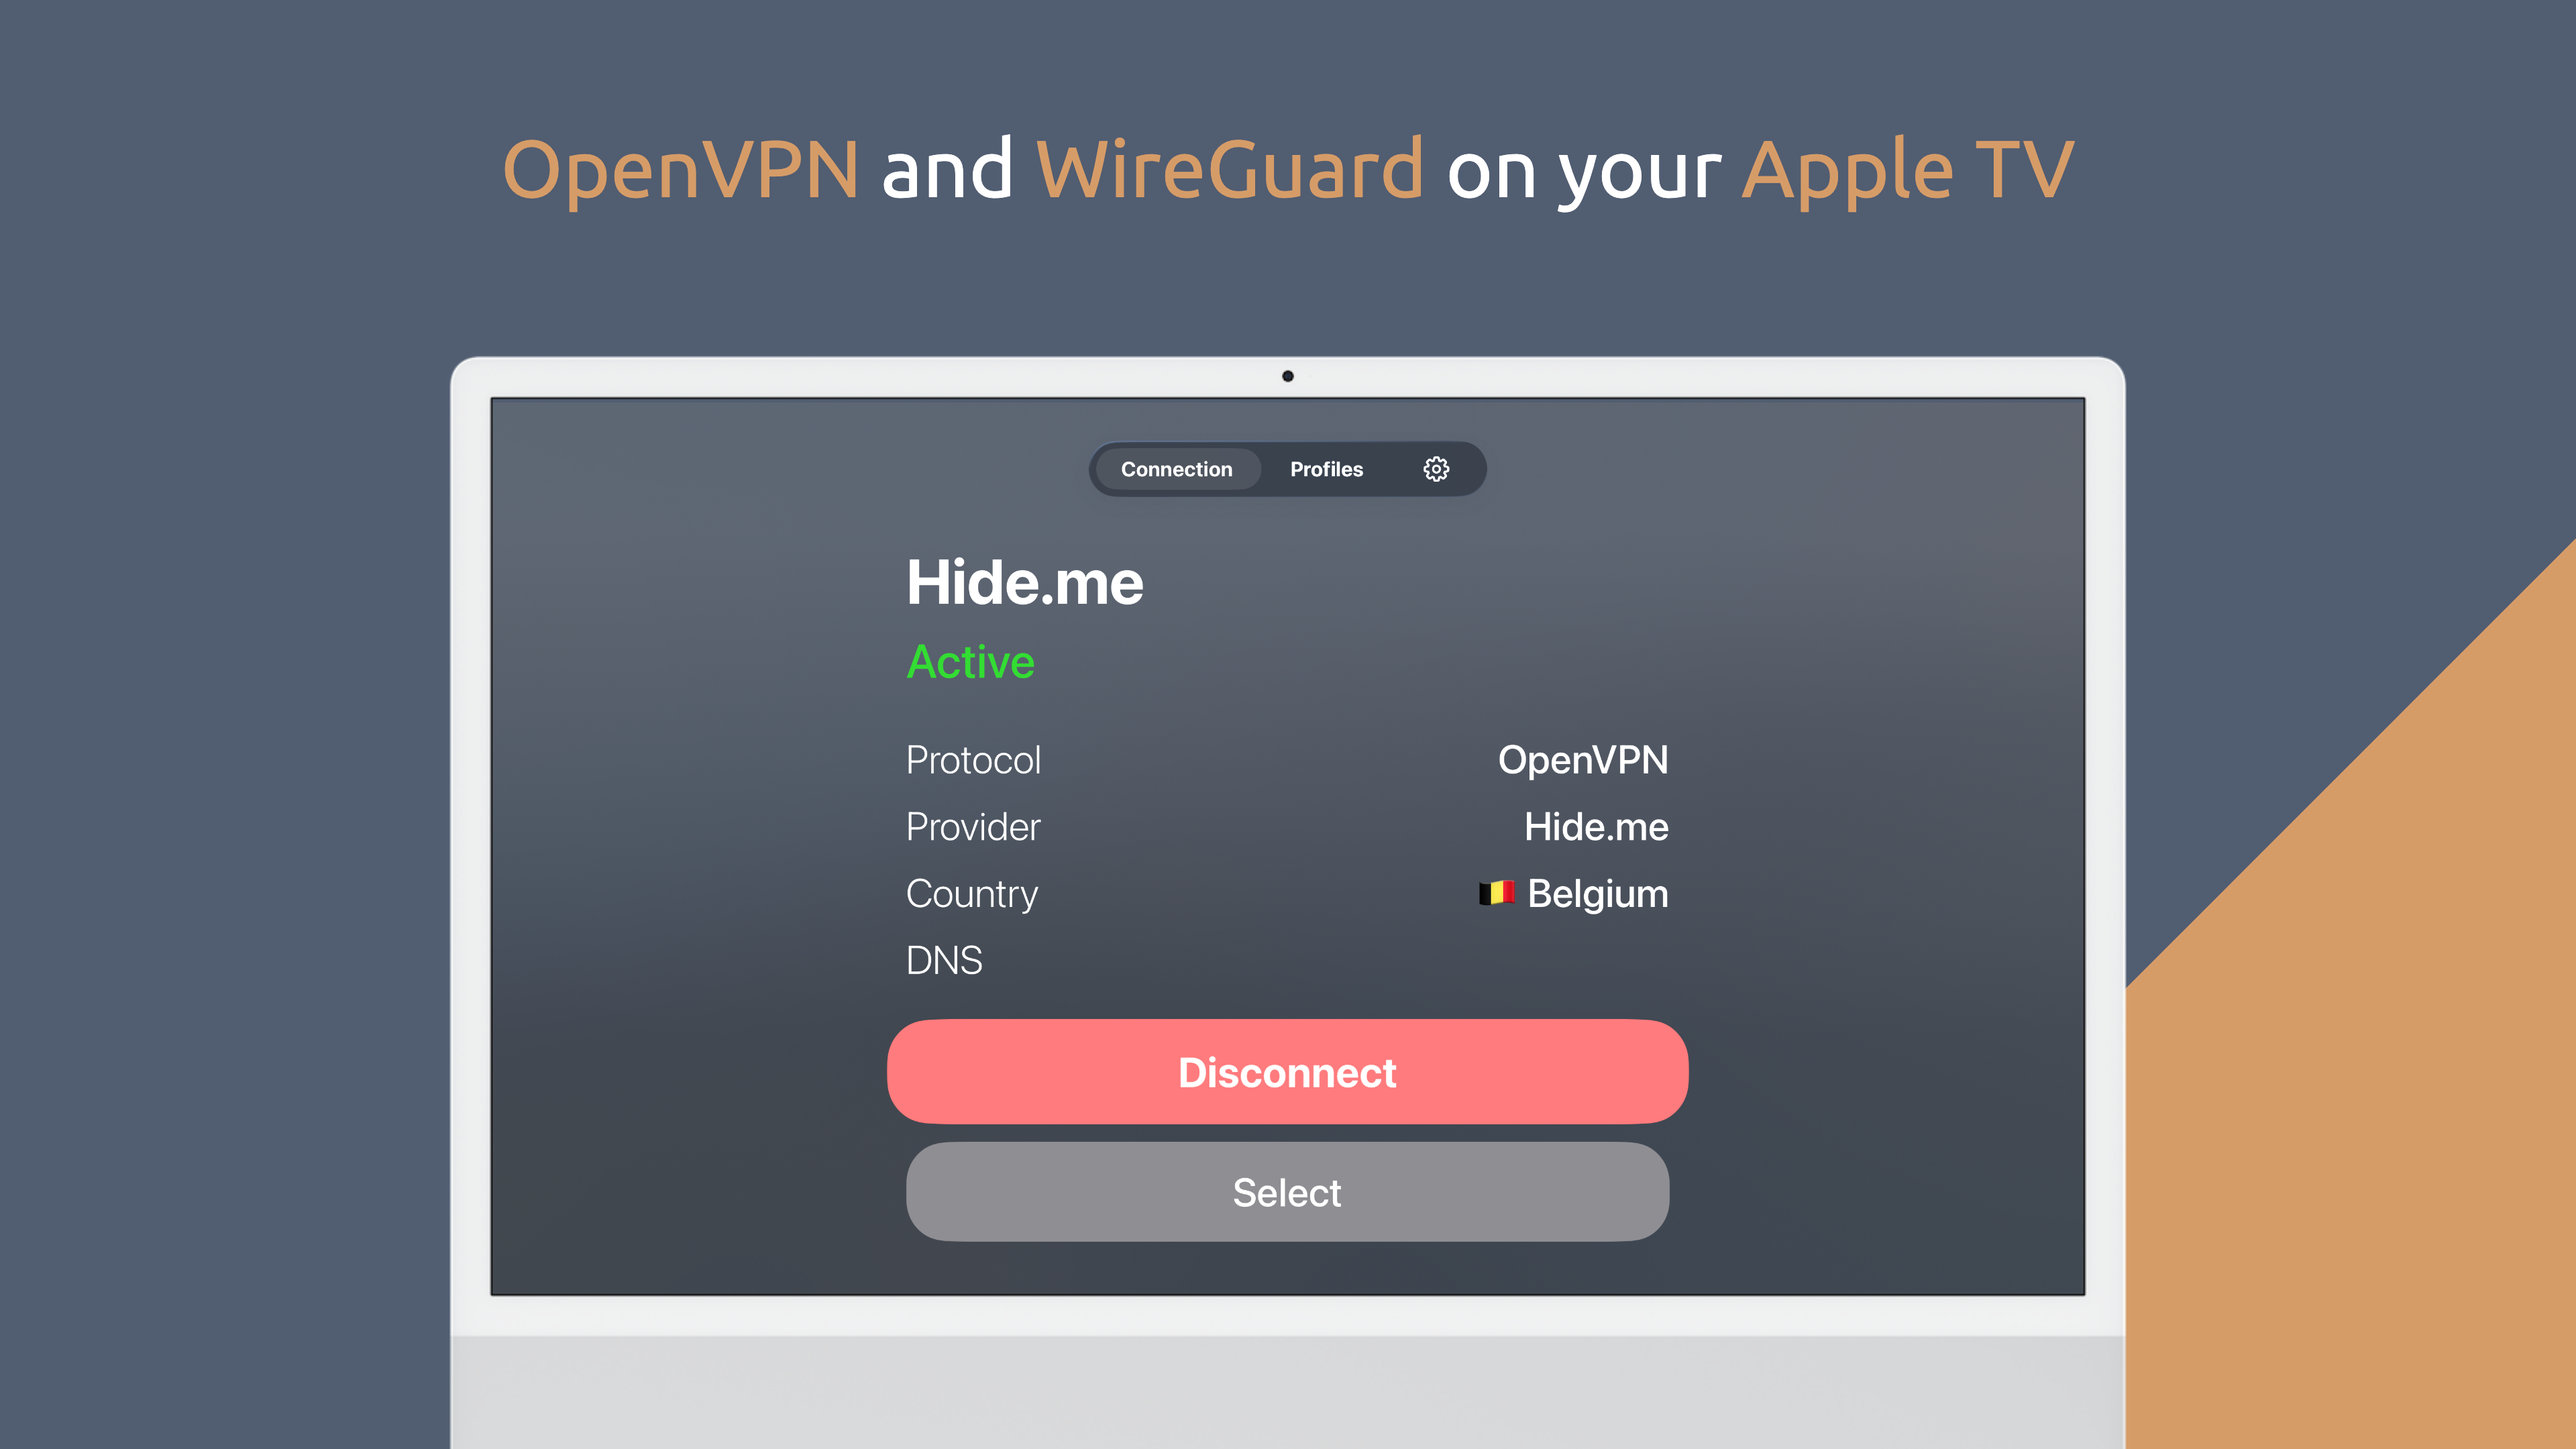
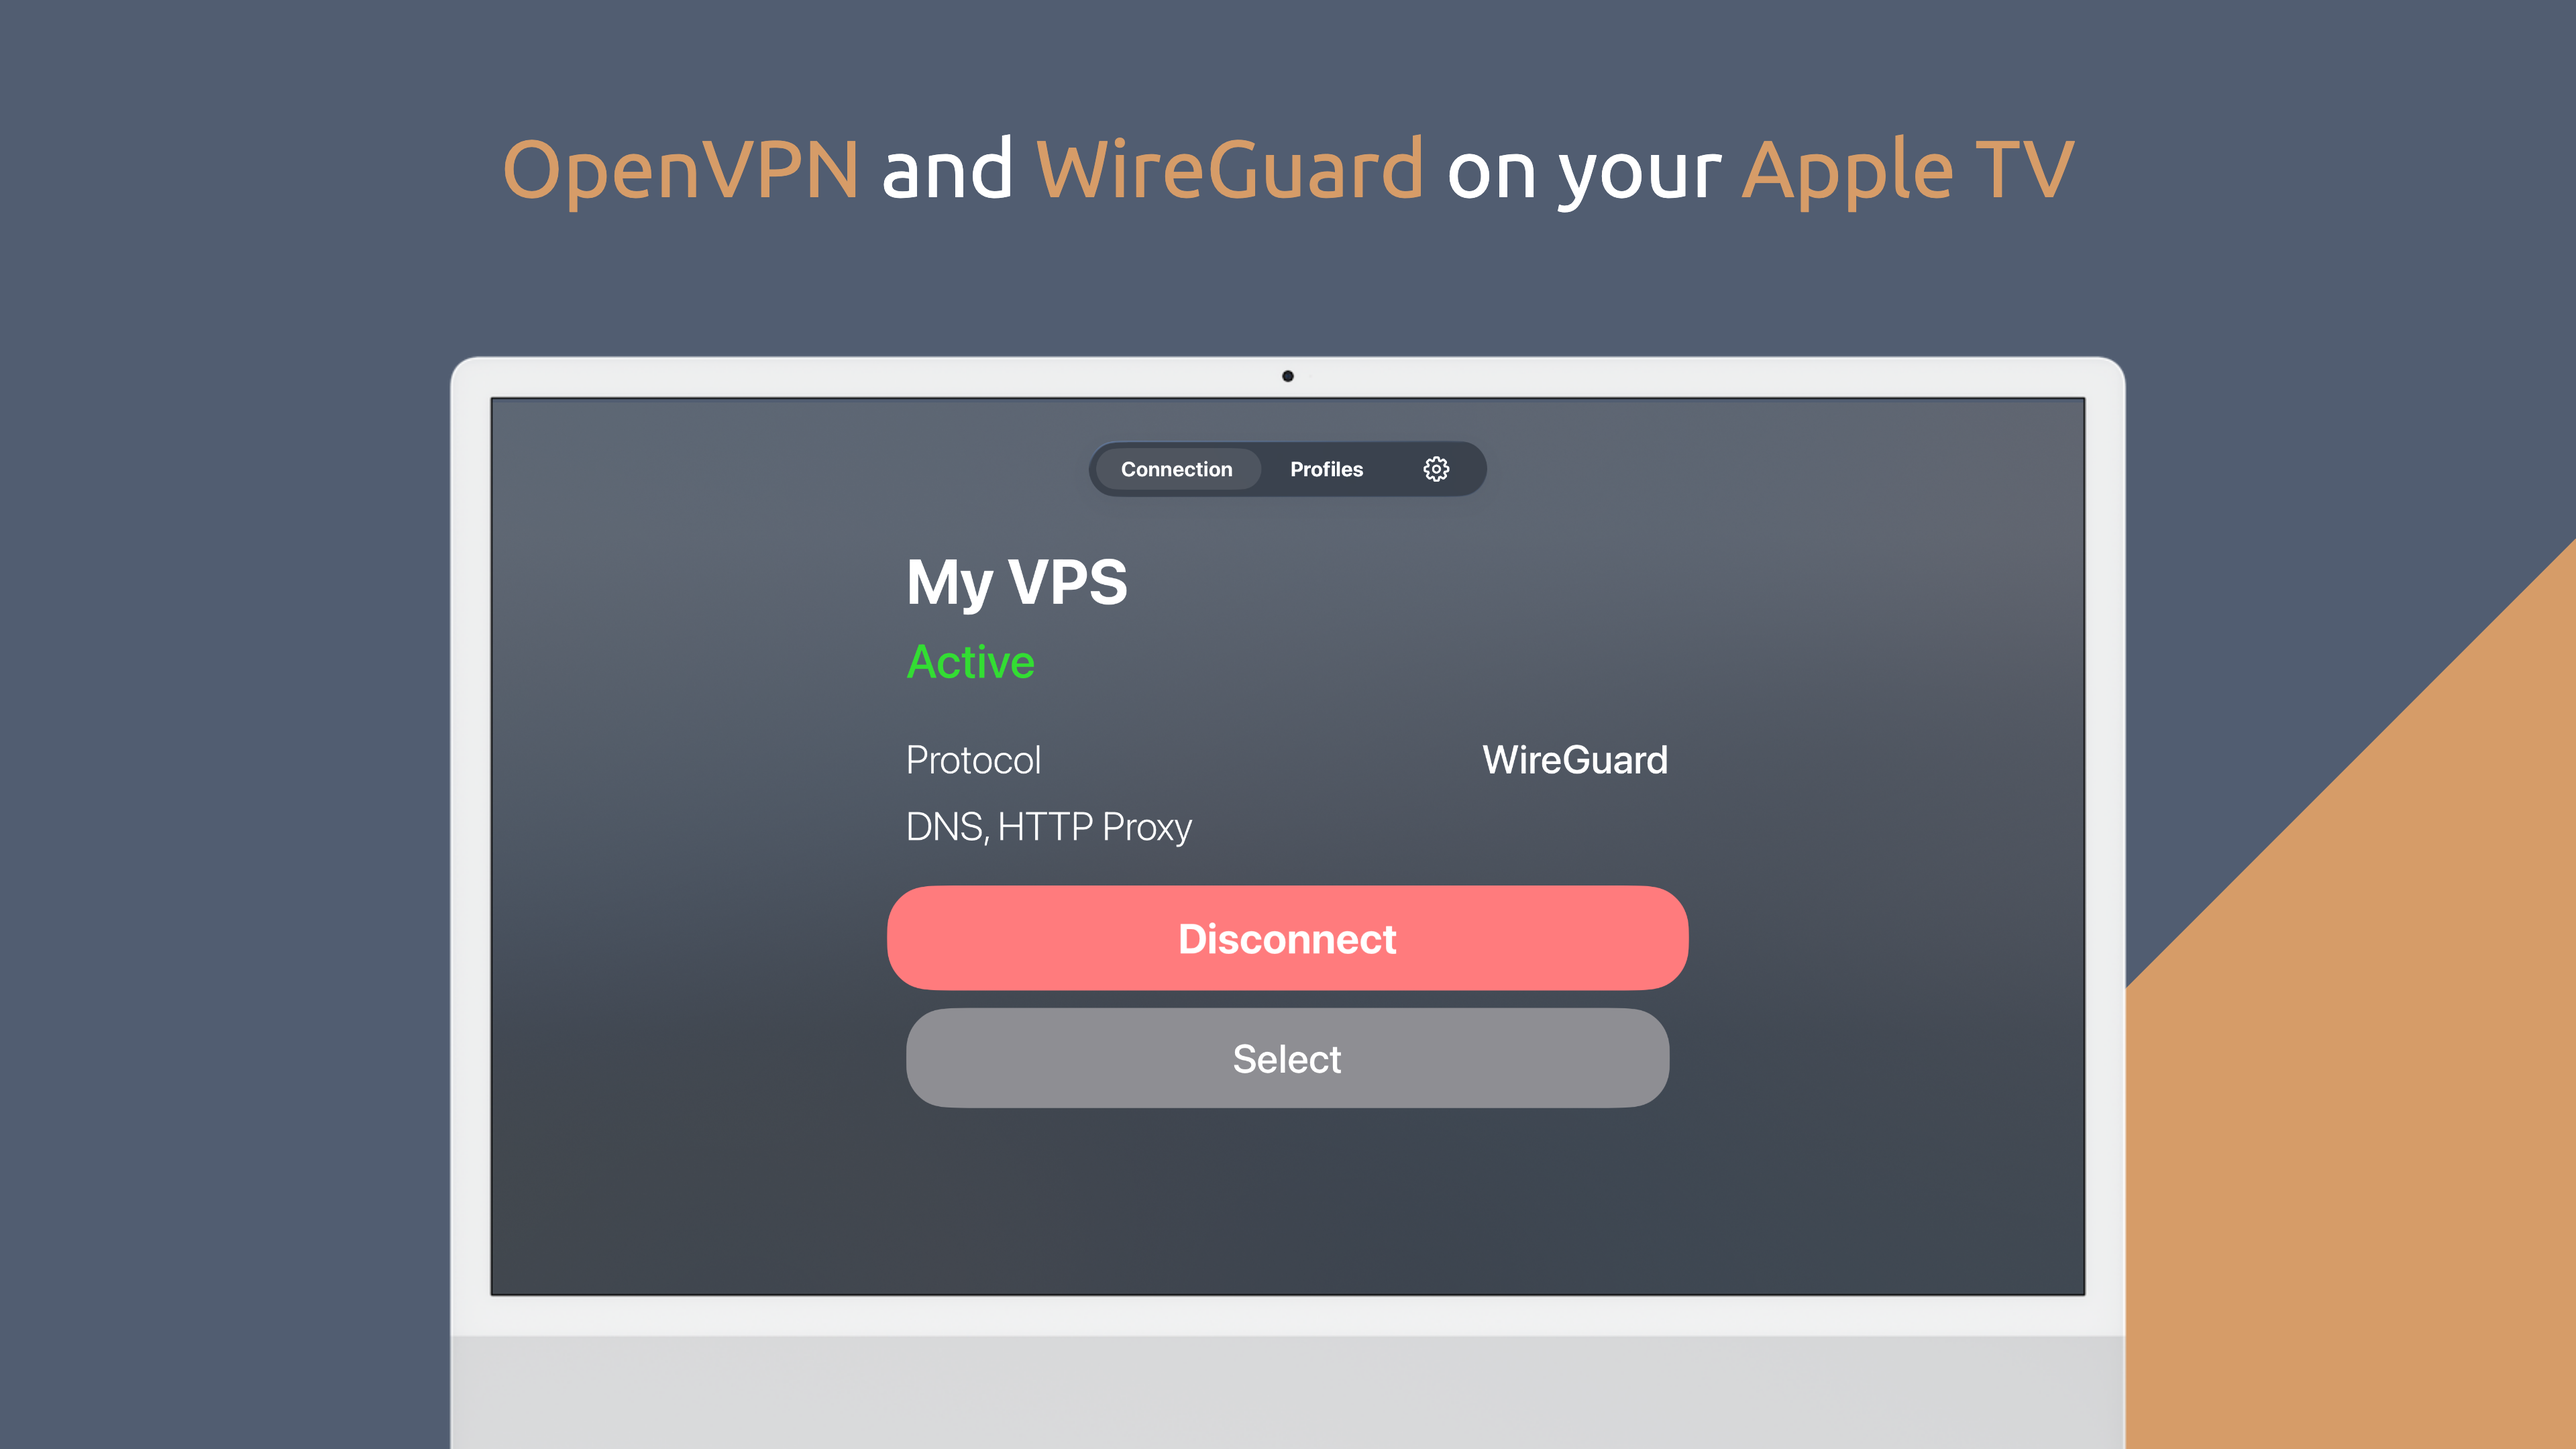
Update screenshots

Changed region(s): [[0.3438, 0.4963, 0.6562, 0.8685], [0.3438, 0.3722, 0.4375, 0.4343]]

diff --git a/app-apple/Passepartout/App/Context/ProfileManager+Testing.swift b/app-apple/Passepartout/App/Context/ProfileManager+Testing.swift
@@ -28,60 +28,29 @@ extension ProfileManager {
                     for moduleType in parameters.moduleTypes {
                         var moduleBuilder = newModule(moduleType)
 
-                        if parameters.name == "Hide.me" {
-                            if var ovpnBuilder = moduleBuilder as? ProviderModule.Builder {
-                                ovpnBuilder.providerId = parameters.providerId
-                                ovpnBuilder.providerModuleType = .OpenVPN
-                                ovpnBuilder.entity = mockHideMeEntity
-                                let credentials = OpenVPN.Credentials.Builder(username: "foo", password: "bar").build()
-                                var options = OpenVPNProviderTemplate.Options()
-                                options.credentials = credentials
-                                try ovpnBuilder.setOptions(options, for: moduleType)
-                                moduleBuilder = ovpnBuilder
-                            } else if var onDemandBuilder = moduleBuilder as? OnDemandModule.Builder {
-#if os(tvOS)
-                                onDemandIdIfDisabled = onDemandBuilder.id
-#endif
-                                onDemandBuilder.policy = .excluding
-                                onDemandBuilder.withSSIDs = [
-                                    "Friend's House": false,
-                                    "My Home Network": true,
-                                    "Safe Wi-Fi": true
-                                ]
-                                moduleBuilder = onDemandBuilder
-                            } else if var dnsBuilder = moduleBuilder as? DNSModule.Builder {
-//                                dnsBuilder.protocolType = .https
-//                                dnsBuilder.dohURL = "https://cloudflare-dns.com/dns-query"
-                                dnsBuilder.protocolType = .cleartext
-                                dnsBuilder.servers = ["1.1.1.1", "1.0.0.1"]
-                                dnsBuilder.domains = ["my-domain.com", "search-one.com", "search-two.org"]
-                                moduleBuilder = dnsBuilder
-                            }
-                        }
-
-                        if parameters.name == "My VPS" {
-                            if var ovpnBuilder = moduleBuilder as? OpenVPNModule.Builder {
-                                var cfgBuilder = OpenVPN.Configuration.Builder()
-                                cfgBuilder.ca = .init(pem: "...")
-                                cfgBuilder.remotes = [
-                                    ExtendedEndpoint(rawValue: "1.2.3.4:UDP:1234")!
-                                ]
-                                ovpnBuilder.configurationBuilder = cfgBuilder
-                                moduleBuilder = ovpnBuilder
-                            } else if let onDemandBuilder = moduleBuilder as? OnDemandModule.Builder {
-                                moduleBuilder = onDemandBuilder
-                            }
-                        }
-
                         if var wgBuilder = moduleBuilder as? WireGuardModule.Builder {
-                            var cfgBuilder = WireGuard.Configuration.Builder(privateKey: "")
-                            cfgBuilder.peers = [.init(publicKey: "")]
+                            let gen = StandardWireGuardKeyGenerator()
+                            var cfgBuilder = WireGuard.Configuration.Builder(keyGenerator: gen)
+                            cfgBuilder.peers = [.init(publicKey: gen.newPrivateKey())]
                             wgBuilder.configurationBuilder = cfgBuilder
                             moduleBuilder = wgBuilder
-                        }
-
-                        if var dnsBuilder = moduleBuilder as? DNSModule.Builder {
-                            dnsBuilder.servers = ["1.1.1.1"]
+                        } else if var onDemandBuilder = moduleBuilder as? OnDemandModule.Builder {
+                            if parameters.name == "My VPS" {
+                                onDemandIdIfDisabled = onDemandBuilder.id
+                            }
+                            onDemandBuilder.policy = .excluding
+                            onDemandBuilder.withSSIDs = [
+                                "Friend's House": false,
+                                "My Home Network": true,
+                                "Safe Wi-Fi": true
+                            ]
+                            moduleBuilder = onDemandBuilder
+                        } else if var dnsBuilder = moduleBuilder as? DNSModule.Builder {
+//                            dnsBuilder.protocolType = .https
+//                            dnsBuilder.dohURL = "https://cloudflare-dns.com/dns-query"
+                            dnsBuilder.protocolType = .cleartext
+                            dnsBuilder.servers = ["1.1.1.1", "1.0.0.1"]
+                            dnsBuilder.domains = ["my-domain.com", "search-one.com", "search-two.org"]
                             moduleBuilder = dnsBuilder
                         }
 
@@ -130,49 +99,8 @@ private extension ProfileManager {
     static let mockParameters: [Parameters] = [
         Parameters("CloudFlare DoT", false, false, [.DNS]),
         Parameters("Coffee VPN", true, false, [.WireGuard]),
-        Parameters("Hide.me", true, true, [.Provider, .OnDemand, .DNS], .hideme),
-        Parameters("My VPS", true, true, [.OpenVPN, .OnDemand]),
-        Parameters("Office", true, false, [.OnDemand, .HTTPProxy]),
+        Parameters("My VPS", true, true, [.WireGuard, .OnDemand, .DNS, .HTTPProxy]),
+        Parameters("Office", true, true, [.OnDemand, .HTTPProxy]),
         Parameters("Personal DoH", false, false, [.DNS, .OnDemand])
     ]
-
-    static var mockHideMeEntity: ProviderEntity {
-        do {
-            var cfgBuilder = OpenVPN.Configuration.Builder()
-            cfgBuilder.ca = .init(pem: "...")
-            let cfg = try cfgBuilder.build(isClient: false)
-            let endpoints: [EndpointProtocol] = [.init(.udp, 1194)]
-            let template = OpenVPNProviderTemplate(configuration: cfg, endpoints: endpoints)
-            let templateData = try JSONEncoder().encode(template)
-
-            let preset = ProviderPreset(
-                providerId: .hideme,
-                presetId: "default",
-                description: "Default",
-                moduleType: .OpenVPN,
-                templateData: templateData
-            )
-
-            return ProviderEntity(
-                server: .init(
-                    metadata: .init(
-                        providerId: .hideme,
-                        categoryName: "default",
-                        countryCode: "BE",
-                        otherCountryCodes: nil,
-                        area: nil
-                    ),
-                    serverId: "be-v4",
-                    hostname: "be-v4.hideservers.net",
-                    ipAddresses: nil,
-                    supportedModuleTypes: [.OpenVPN],
-                    supportedPresetIds: nil
-                ),
-                preset: preset,
-                heuristic: .sameCountry("BE")
-            )
-        } catch {
-            fatalError("Unable to build Hide.me entity: \(error)")
-        }
-    }
 }
